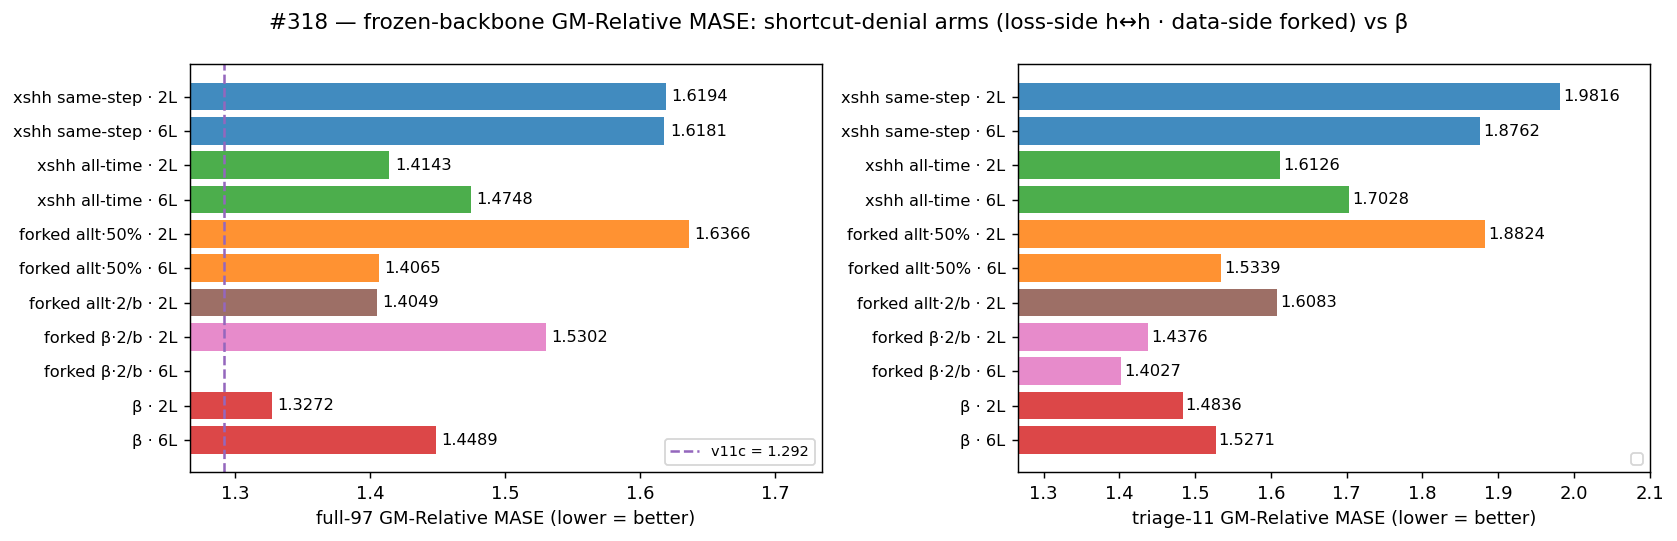
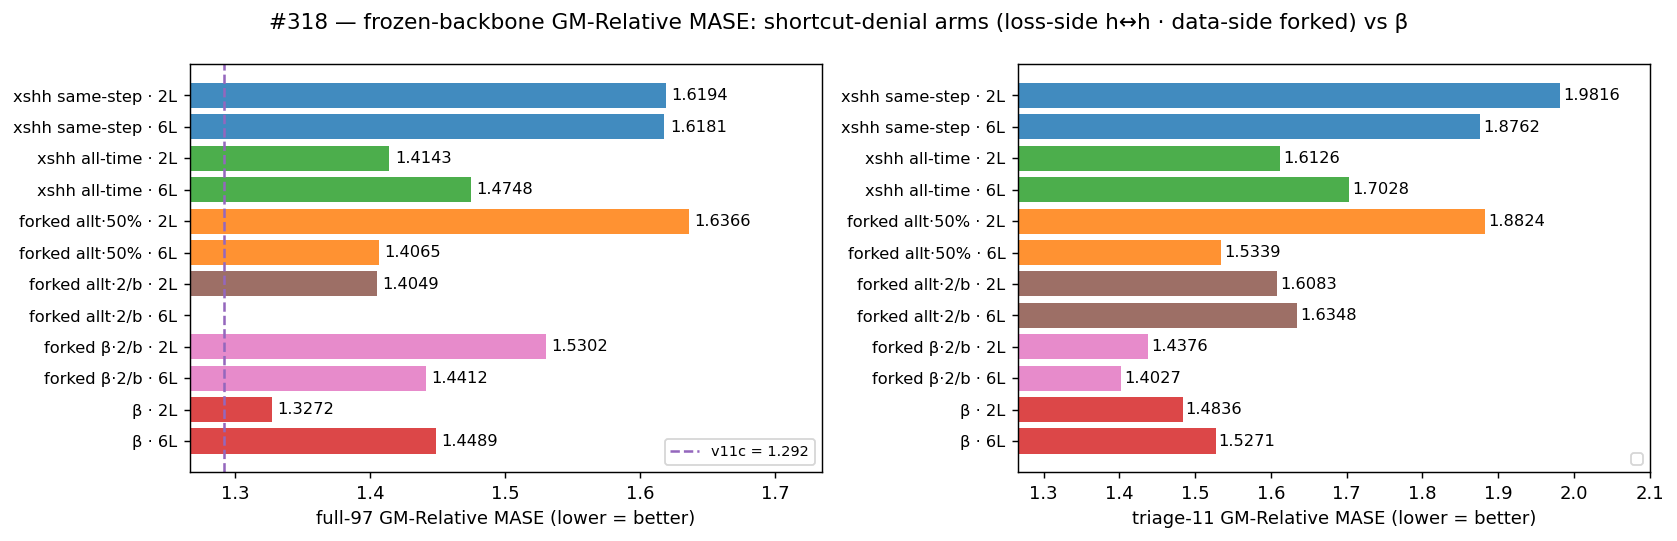
results(#318): forked β·2/b 6L = 1.4412 — arm complete
forked β·2/b: 2L 1.5302 (+15.3%), 6L 1.4412 (+8.6%; ≈ β·6L 1.4489). Head-dependent
like the other forked arms; neither head beats β·2L (1.3272). Best-head radar now
uses its 6L. Only forked allt·2/b 6L remains (eval running).

diff --git a/experiments/2026-05-23_xseries_hh/RESULTS.md b/experiments/2026-05-23_xseries_hh/RESULTS.md
@@ -122,7 +122,7 @@ seasonal-naive 1.0.
 | data-side · forked allt·2/b | 2L | 1.4049 | 1.6083 | +5.9% |
 | data-side · forked allt·2/b | 6L | *in flight* | *in flight* | — |
 | data-side · forked β·2/b | 2L | 1.5302 | 1.4376 | +15.3% |
-| data-side · forked β·2/b | 6L | *running* | 1.4027 | — |
+| data-side · forked β·2/b | 6L | 1.4412 | 1.4027 | +8.6% |
 | v11c (reference) | 2L | 1.292 | — | −2.7% |
 
 *GM-Relative MASE, lower = better; Δ vs the best arm β·2L (1.3272).*
